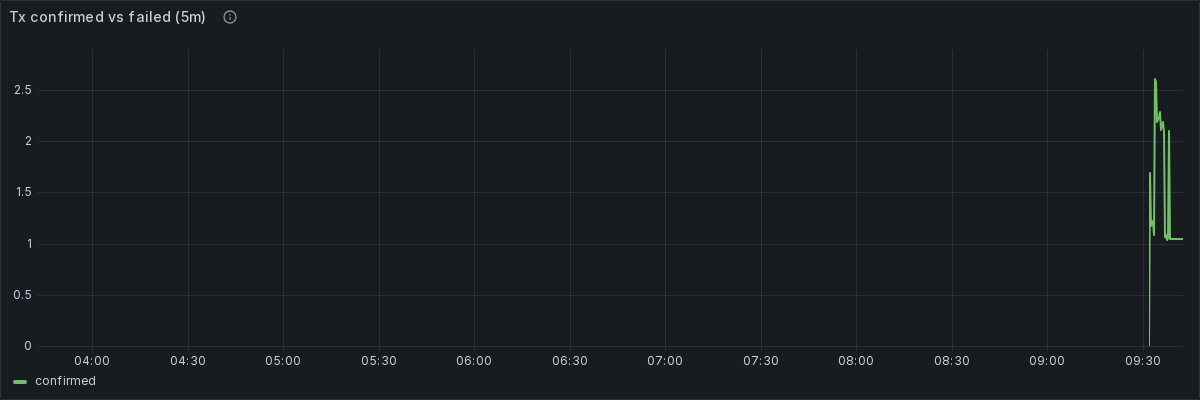
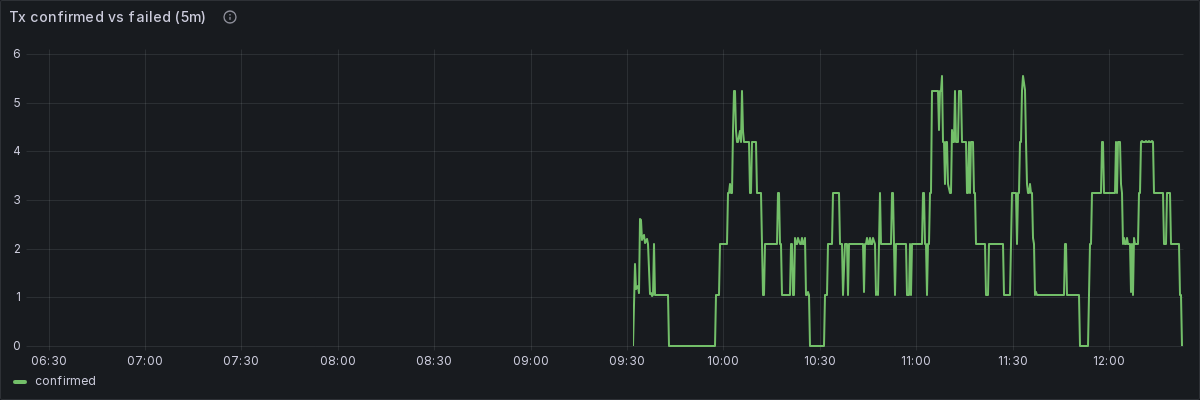
fix(dashboards): give Tx-involving-router a unique panel id (16 -> 18)
feeder.json reused panel id 16 for both the Tx-confirmed-vs-failed preview and
Tx involving router. Renumber the latter to 18 so per-panel renders are
unambiguous; re-render the two panels and embed both previews in the Grafana
guide (no orphan images). threshold-drift test green.

diff --git a/docs/architecture/grafana-dashboards.md b/docs/architecture/grafana-dashboards.md
@@ -272,8 +272,12 @@ The operational home base: liveness, money, latency, health, accuracy and billin
 **Tx confirmed vs failed (5m)** · `timeseries` — `sum by (outcome) (increase(dia_bridge_transactions_total{…}[5m]))`.
 Confirmed should dominate; a rising failed line is the warning.
 
+![Tx confirmed vs failed (5m) — preview](img/overview-panel-16.png)
+
 **Pairs per tx (p50/p95)** · `timeseries` — the **batch size** (pairs per tx) at median and 95th;
 higher = more amortized fees per pair.
+
+![Pairs per tx (p50/p95) — preview](img/overview-panel-17.png)
 
 ### Row 3 — Chain & Scanner Health
 
@@ -364,7 +368,7 @@ higher = more amortized fees per pair.
 
 **Tx involving router (5m, by router & outcome)** · `timeseries` · legend `{{router_id}} · {{outcome}}`
 
-![Tx involving router (5m, by router & outcome)](img/overview-panel-16.png)
+![Tx involving router (5m, by router & outcome)](img/overview-panel-18.png)
 `sum by (router_id, outcome) (increase(dia_bridge_transaction_router_membership_total{…}[5m]))`
 
 - **What it shows** — which **routers** contributed at least one member to a transaction, split
